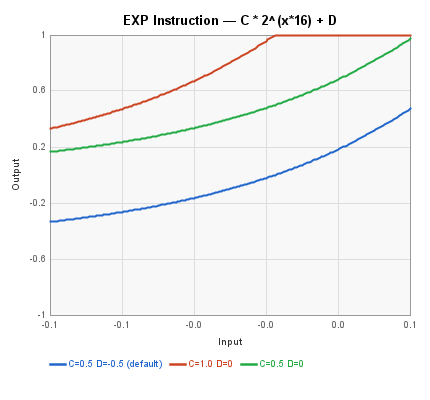
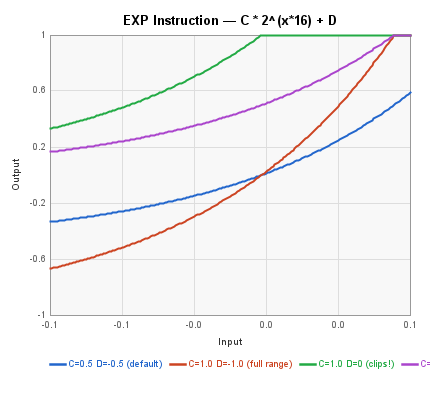
Fix instruction plots: MAXX no abs, Root distinct curves, LOG/EXP show C/D effects
MAXX: output follows max(input, threshold) without absolute value,
no spurious peaks on negative half-cycles. Root: show both sqrt and
cbrt as distinct FV-1-simulated curves. LOG: four curves demonstrating
C (slope) and D (offset) effects including negative C. EXP: four curves
including C=1 D=-1 full-range mapping and C=1 D=0 clipping example.

diff --git a/src/test/java/com/holycityaudio/SpinCAD/InstructionsDocTest.java b/src/test/java/com/holycityaudio/SpinCAD/InstructionsDocTest.java
@@ -99,52 +99,57 @@ public class InstructionsDocTest {
 
     // ================ Exp — DC sweep over useful input range ================
     // FV-1 EXP instruction: output = C * 2^(ACC * 16) + D
-    // Default: C=0.5, D=-0.5
-    // At ACC=0: 0.5 * 2^0 - 0.5 = 0
-    // At ACC=-0.0625 (= -1/16): 0.5 * 2^(-1) - 0.5 = -0.25
-    // At ACC=+0.0625 (= +1/16): 0.5 * 2^(1) - 0.5 = 0.5
-    // Useful range: roughly -0.1 to +0.06 before output clips
+    // At ACC=0: output = C + D.  At ACC=1/16: output = 2C + D.
+    // The curve grows very fast, so D must offset C to keep output in range.
+    // For C=1: at x=0, output = 1+D, so D=-1 keeps output = 0 at x=0
+    //          at x=1/16, output = 2+(-1) = 1 (just reaches full scale)
 
     private void plotExp(File docsDir) throws Exception {
-        // Show three curves with different C,D settings
-        // Curve 1: Default C=0.5, D=-0.5 (standard pot-to-frequency mapping)
-        // Curve 2: C=1.0, D=0  (pure exponential)
-        // Curve 3: C=0.5, D=0  (half-scale exponential)
-
-        // Sweep input from -0.1 to +0.06 (where the interesting behavior is)
+        // Sweep input from -0.1 to +0.07 (where the interesting behavior is)
         double xMin = -0.10;
-        double xMax = 0.06;
+        double xMax = 0.07;
         double[] xData = new double[NUM_POINTS];
         for (int i = 0; i < NUM_POINTS; i++) {
             xData[i] = xMin + (xMax - xMin) * i / (NUM_POINTS - 1);
         }
 
-        // Compute mathematically (the simulation DC sweep is too coarse)
-        double[] curve1 = new double[NUM_POINTS]; // C=0.5, D=-0.5
-        double[] curve2 = new double[NUM_POINTS]; // C=1.0, D=0
-        double[] curve3 = new double[NUM_POINTS]; // C=0.5, D=0
+        // Curve 1: Default C=0.5, D=-0.5 (standard pot-to-frequency mapping)
+        //   At x=0: 0.5-0.5=0.  At x=1/16: 1.0-0.5=0.5.  Stays in range.
+        // Curve 2: C=1.0, D=-1.0 (full-range exponential, no clipping)
+        //   At x=0: 1-1=0.  At x=1/16: 2-1=1.  Perfect 0-to-1 mapping.
+        // Curve 3: C=1.0, D=0 (clips almost immediately)
+        //   At x=0: 1+0=1 already at max!  Shows why D matters.
+        // Curve 4: C=0.5, D=0 (half-scale, clips above x≈1/16)
+
+        double[] curve1 = new double[NUM_POINTS];
+        double[] curve2 = new double[NUM_POINTS];
+        double[] curve3 = new double[NUM_POINTS];
+        double[] curve4 = new double[NUM_POINTS];
 
         for (int i = 0; i < NUM_POINTS; i++) {
             double x = xData[i];
             double exp16 = Math.pow(2, x * 16);
             curve1[i] = Math.max(-1, Math.min(1, 0.5 * exp16 - 0.5));
-            curve2[i] = Math.max(-1, Math.min(1, 1.0 * exp16 + 0));
-            curve3[i] = Math.max(-1, Math.min(1, 0.5 * exp16 + 0));
+            curve2[i] = Math.max(-1, Math.min(1, 1.0 * exp16 - 1.0));
+            curve3[i] = Math.max(-1, Math.min(1, 1.0 * exp16 + 0));
+            curve4[i] = Math.max(-1, Math.min(1, 0.5 * exp16 + 0));
         }
 
         writePlot(new File(docsDir, "instructions-exp.png"),
             "EXP Instruction — C * 2^(x*16) + D", "Input", "Output",
             xMin, xMax, -1.0, 1.0,
-            xData, new double[][]{curve1, curve2, curve3},
-            new String[]{"C=0.5 D=-0.5 (default)", "C=1.0 D=0", "C=0.5 D=0"},
-            new String[]{COLORS[0], COLORS[1], COLORS[2]});
+            xData, new double[][]{curve1, curve2, curve3, curve4},
+            new String[]{"C=0.5 D=-0.5 (default)", "C=1.0 D=-1.0 (full range)",
+                          "C=1.0 D=0 (clips!)", "C=0.5 D=0"},
+            new String[]{COLORS[0], COLORS[1], COLORS[2], COLORS[3]});
         System.out.println("  wrote instructions-exp.png");
     }
 
     // ================ Log — sweep with log-scaled x-axis ================
     // FV-1 LOG: output = C * log2(|ACC|) / 16 + D
-    // Default: C=0.5, D=0.5/16=0.03125
-    // Show log response from small values to ~1.0
+    // C scales the slope (steepness of the log curve).
+    // D shifts the output vertically (DC offset).
+    // Show multiple C/D combinations to illustrate their effect.
 
     private void plotLog(File docsDir) throws Exception {
         // Log-spaced x-axis from 0.001 to 1.0
@@ -156,29 +161,41 @@ public class InstructionsDocTest {
             xData[i] = Math.pow(10, logVal);
         }
 
-        // Compute LOG instruction output mathematically
-        // LOG: output = C * log2(|x|) / 16 + D
-        double C = 0.5;
-        double D = 0.5 / 16.0;
-        double[] logOut = new double[NUM_POINTS];
+        // Curve 1: C=0.5, D=0.5/16 (default) — moderate slope, small offset
+        // Curve 2: C=1.0, D=0.5/16 — steeper slope (C doubles sensitivity)
+        // Curve 3: C=0.5, D=0.25 — same slope, shifted up (D adds DC offset)
+        // Curve 4: C=-0.5, D=0.5/16 — inverted slope (C negative flips curve)
+
+        double[][] curves = new double[4][NUM_POINTS];
+        double[][] params = {
+            {0.5,  0.5/16.0},   // default
+            {1.0,  0.5/16.0},   // double C
+            {0.5,  0.25},       // raised D
+            {-0.5, 0.5/16.0},   // negative C
+        };
+
         for (int i = 0; i < NUM_POINTS; i++) {
             double x = xData[i];
             double log2x = Math.log(Math.abs(x)) / Math.log(2);
-            logOut[i] = Math.max(-1, Math.min(1, C * log2x / 16.0 + D));
+            for (int c = 0; c < 4; c++) {
+                curves[c][i] = Math.max(-1, Math.min(1,
+                    params[c][0] * log2x / 16.0 + params[c][1]));
+            }
         }
 
-        // For log-scale x-axis, plot against log10(x) and relabel
+        // Plot against log10(x) for log-scaled x-axis
         double[] xPlot = new double[NUM_POINTS];
         for (int i = 0; i < NUM_POINTS; i++) {
             xPlot[i] = Math.log10(xData[i]);
         }
 
         writePlot(new File(docsDir, "instructions-log.png"),
-            "LOG Instruction — C=0.5 D=0.5/16", "Input (log scale)", "Output",
-            logMin, logMax, -0.5, 0.1,
-            xPlot, new double[][]{logOut},
-            new String[]{"C*log2(|x|)/16 + D"},
-            new String[]{COLORS[0]});
+            "LOG Instruction — C * log2(|x|) / 16 + D", "Input (log scale)", "Output",
+            logMin, logMax, -0.7, 0.5,
+            xPlot, curves,
+            new String[]{"C=0.5 D=0.03 (default)", "C=1.0 D=0.03 (steeper)",
+                          "C=0.5 D=0.25 (shifted up)", "C=-0.5 D=0.03 (inverted)"},
+            new String[]{COLORS[0], COLORS[1], COLORS[2], COLORS[3]});
         System.out.println("  wrote instructions-log.png");
     }
 
@@ -187,40 +204,37 @@ public class InstructionsDocTest {
     // At x=0, log(0) = -infinity → saturates to -1 → exp clips
 
     private void plotRoot(File docsDir) throws Exception {
-        // Sweep from small positive values to 1.0
-        // Show sqrt (N=2), cbrt (N=3), and 4th root (N=4)
         double[] xData = new double[NUM_POINTS];
         for (int i = 0; i < NUM_POINTS; i++) {
             xData[i] = (double) i / (NUM_POINTS - 1);
         }
 
-        // Simulate sqrt via the actual block
+        // Simulate sqrt (N=2) and cbrt (N=3) via the actual block
         double[] sqrtSim = sweepBlock(
             () -> new RootCADBlock(100, 100),
             "Control Input 1", "Control Output 1",
             0.0, 1.0);
 
-        // Mathematical reference curves
-        double[] sqrtRef = new double[NUM_POINTS];
-        double[] cbrtRef = new double[NUM_POINTS];
-        for (int i = 0; i < NUM_POINTS; i++) {
-            double x = xData[i];
-            sqrtRef[i] = Math.sqrt(x);
-            cbrtRef[i] = Math.cbrt(x);
-        }
+        double[] cbrtSim = sweepBlock(
+            () -> { RootCADBlock b = new RootCADBlock(100, 100); b.setRoot(3); return b; },
+            "Control Input 1", "Control Output 1",
+            0.0, 1.0);
 
+        // Mathematical reference: dashed identity line (drawn by writePlot when ranges match)
+        // Plot simulated curves only — the identity line provides context
         writePlot(new File(docsDir, "instructions-root.png"),
-            "Root Instruction", "Input", "Output",
+            "Root Instruction (FV-1 Simulated)", "Input", "Output",
             0, 1.0, 0, 1.0,
-            xData, new double[][]{sqrtSim, sqrtRef, cbrtRef},
-            new String[]{"FV-1 sqrt (simulated)", "sqrt(x) reference", "cbrt(x) reference"},
-            new String[]{COLORS[0], "#aaaaaa", COLORS[2]});
+            xData, new double[][]{sqrtSim, cbrtSim},
+            new String[]{"sqrt (N=2)", "cbrt (N=3)"},
+            new String[]{COLORS[0], COLORS[2]});
         System.out.println("  wrote instructions-root.png");
     }
 
     // ================ Maximum — show MAXX behavior on sine wave ================
-    // MAXX compares |accumulator| vs |register * gain|, keeps larger absolute value.
-    // Show a sine wave and a fixed threshold — output shows the envelope-like behavior.
+    // MAXX keeps the larger of accumulator and register*gain.
+    // Show a sine wave and a fixed threshold — output follows sine when
+    // above threshold, holds at threshold otherwise.
 
     private void plotMaxx(File docsDir) throws IOException {
         int pts = 400;
@@ -234,12 +248,12 @@ public class InstructionsDocTest {
             timeMs[i] = 10.0 * i / (pts - 1);
             sine[i] = 0.9 * Math.sin(2 * Math.PI * cycles * i / (pts - 1));
             ref[i] = 0.4;
-            // MAXX keeps the larger of |accumulator| and |register*gain|
-            maxxOut[i] = Math.max(Math.abs(sine[i]), 0.4);
+            // MAXX: output = max(input1, input2)
+            maxxOut[i] = Math.max(sine[i], 0.4);
         }
 
         writePlot(new File(docsDir, "instructions-maximum.png"),
-            "MAXX — max(|Input 1|, |Input 2|)", "Time (ms)", "Amplitude",
+            "MAXX — max(Input 1, Input 2)", "Time (ms)", "Amplitude",
             0, 10.0, -1.0, 1.0,
             timeMs, new double[][]{sine, maxxOut, ref},
             new String[]{"Input 1 (sine)", "MAXX output", "Input 2 (0.4)"},

diff --git a/docs/instructions-blocks.md b/docs/instructions-blocks.md
@@ -64,9 +64,12 @@ to linear, or for creating exponential curves for control voltages.
 
 The FV-1 EXP instruction computes: `output = C * 2^(input * 16) + D`
 
-The useful input range is narrow (approximately -0.1 to +0.06) because
-the 2^(x*16) term grows extremely fast. The plot shows three C/D
-combinations over this range.
+The useful input range is narrow (approximately -0.1 to +0.07) because
+the 2^(x*16) term grows extremely fast. The D parameter must offset C
+to keep the output in range. For example, with C=1.0, setting D=-1.0
+gives output=0 at x=0 and output=1.0 at x=1/16 — a clean 0-to-1
+exponential mapping. Without offset (D=0), C=1.0 already outputs 1.0
+at x=0 and clips immediately.
 
 ![Exp](images/instructions-exp.png)
 
@@ -93,8 +96,10 @@ fractional powers when paired with EXP.
 
 The FV-1 LOG instruction computes: `output = C * log2(|input|) / 16 + D`
 
-The plot uses a logarithmic input scale (0.001 to 1.0) to show the
-characteristic linear response of the LOG instruction.
+C controls the slope (steepness) of the log curve — doubling C doubles
+the output change per decade of input. D shifts the output vertically.
+Negative C inverts the curve. The plot uses a logarithmic input scale
+(0.001 to 1.0) showing four C/D combinations.
 
 ![Log](images/instructions-log.png)
 
@@ -153,12 +158,11 @@ through scaled by the gain parameter.
 |-----------|-------|---------|-------------|
 | Gain | 0 to 1.0 | 0.5 | Multiplier applied during the MAXX comparison |
 
-The MAXX instruction compares `|accumulator|` with `|register * gain|`
-and keeps the larger absolute value. Note that the output is always
-positive — MAXX operates on absolute values.
+The MAXX instruction compares the accumulator with the register value
+scaled by gain, and keeps the larger of the two.
 
 The plot below shows a sine wave at Input 1 and a constant 0.4 at
-Input 2. The output follows whichever absolute value is larger: the
-sine's peaks when |sine| > 0.4, and the constant 0.4 otherwise.
+Input 2. The output follows the sine when it exceeds the threshold,
+and holds at 0.4 otherwise.
 
 ![Maximum](images/instructions-maximum.png)
